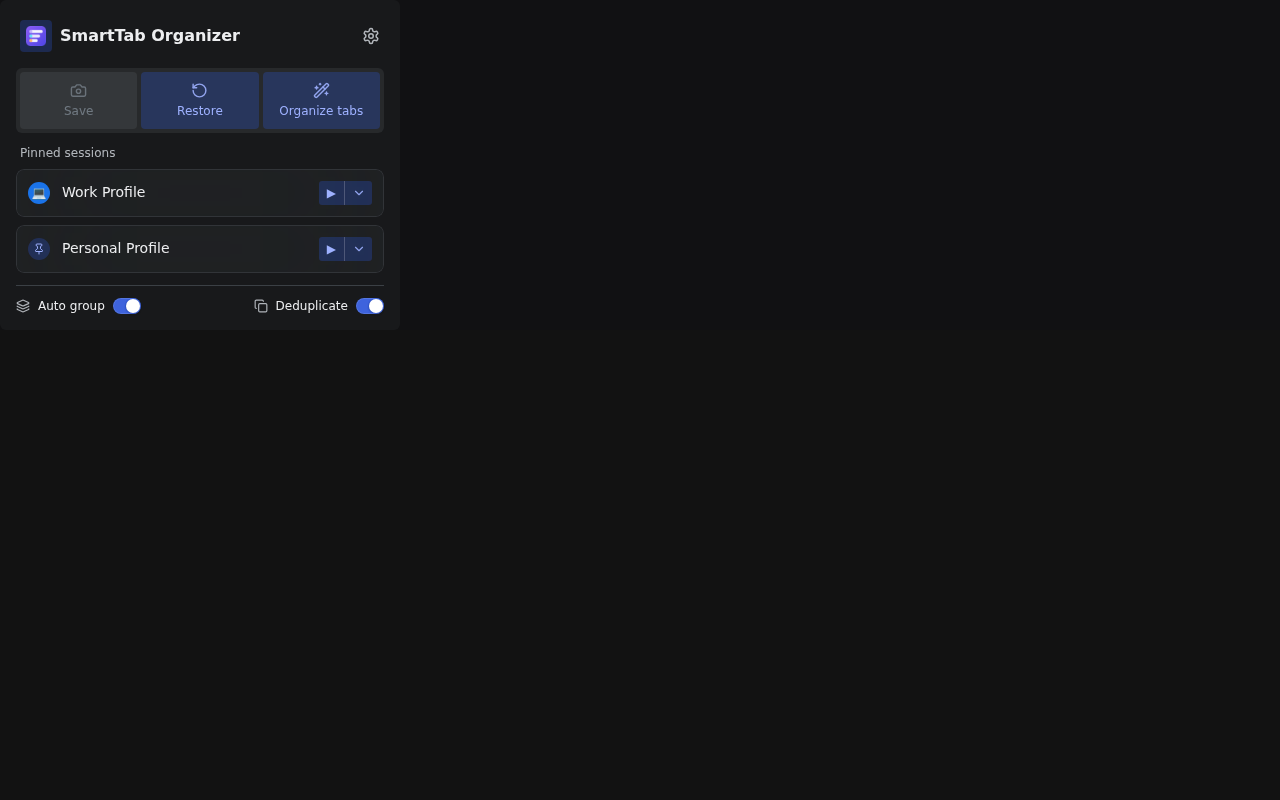
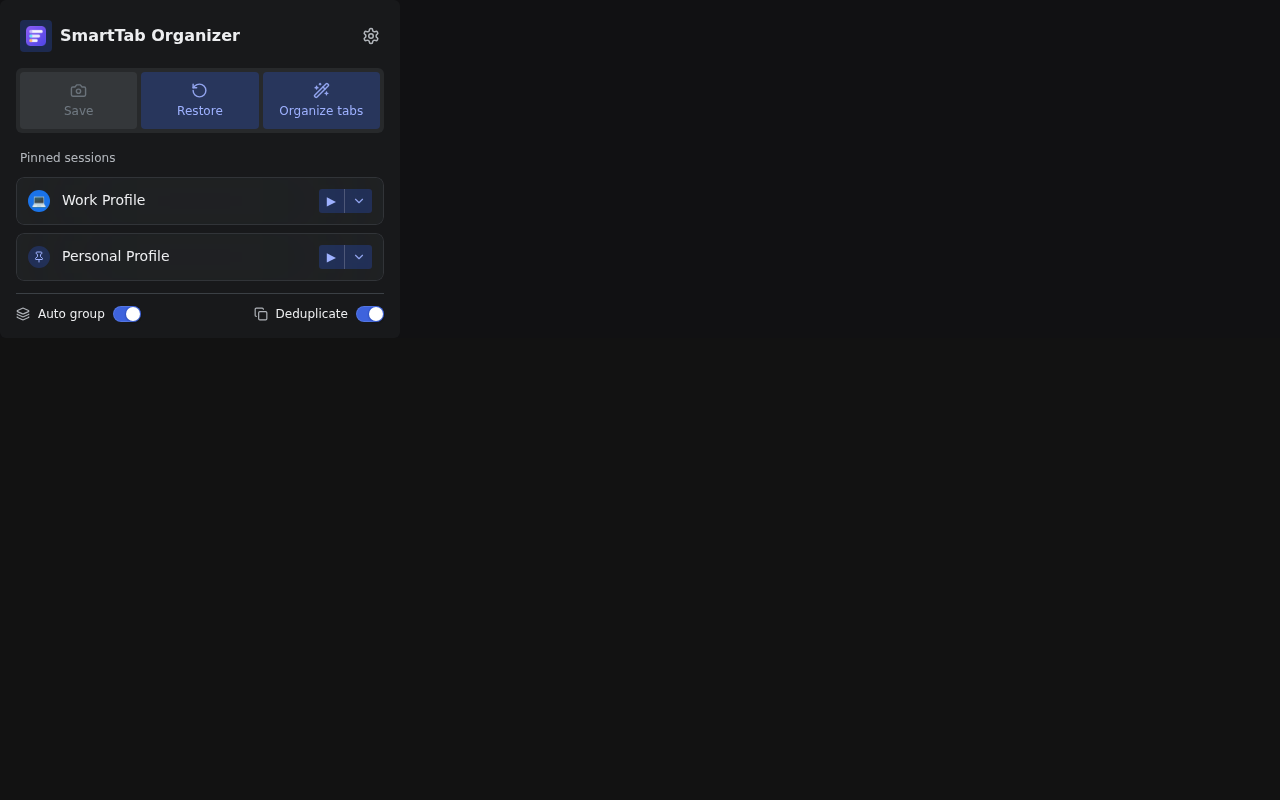
feat(popup): collapsible empty hint for pinned sessions
When the user has at least one saved session but none pinned, the popup
now shows a small collapsible hint that points to the Sessions page.
Collapsed/expanded state is persisted in local storage so the popup
respects the user's choice across sessions.

https://claude.ai/code/session_01VJTvin9FSuX135vUoC8rVM

Changed region(s): [[0.0, 0.1875, 0.3125, 0.4062]]

diff --git a/src/components/UI/PopupProfilesList/PopupProfilesList.tsx b/src/components/UI/PopupProfilesList/PopupProfilesList.tsx
@@ -1,12 +1,15 @@
 import React, { useEffect, useState } from 'react';
-import { Box, Card, Flex, Text } from '@radix-ui/themes';
-import { Pin } from 'lucide-react';
+import { Box, Button, Card, Flex, Text } from '@radix-ui/themes';
+import * as Collapsible from '@radix-ui/react-collapsible';
+import { browser } from 'wxt/browser';
+import { ChevronDown, ExternalLink, Pin } from 'lucide-react';
 import { SplitButton } from '@/components/UI/SplitButton/SplitButton';
 import { getMessage } from '@/utils/i18n';
 import { loadSessions } from '@/utils/sessionStorage';
 import { restoreSessionTabs } from '@/utils/tabRestore';
 import { getRuleCategory } from '@/schemas/enums';
 import { chromeGroupColors } from '@/utils/tabTreeUtils';
+import { popupPinnedEmptyCollapsedItem } from '@/utils/storageItems';
 import type { Session } from '@/types/session';
 
 function getCategoryIcon(categoryId: string | null | undefined): React.ReactNode {
@@ -51,27 +54,116 @@ function getCategoryIcon(categoryId: string | null | undefined): React.ReactNode
   );
 }
 
+async function openSessionsPage() {
+  const url = browser.runtime.getURL('/options.html') + '#sessions';
+  const tabs = await browser.tabs.query({ url: browser.runtime.getURL('/options.html') });
+  if (tabs.length > 0 && tabs[0].id != null) {
+    await browser.tabs.update(tabs[0].id, { active: true, url });
+    if (tabs[0].windowId != null) {
+      await browser.windows.update(tabs[0].windowId, { focused: true });
+    }
+  } else {
+    await browser.tabs.create({ url });
+  }
+  window.close();
+}
+
 export function PopupProfilesList() {
   const [pinnedSessions, setPinnedSessions] = useState<Session[]>([]);
+  const [hasAnySession, setHasAnySession] = useState(false);
+  const [loaded, setLoaded] = useState(false);
+  const [emptyCollapsed, setEmptyCollapsed] = useState(false);
 
   useEffect(() => {
     loadSessions().then((all) => {
-      const pinned = all.filter((s) => s.isPinned);
-      setPinnedSessions(pinned);
+      setPinnedSessions(all.filter((s) => s.isPinned));
+      setHasAnySession(all.length > 0);
+      setLoaded(true);
     });
+    popupPinnedEmptyCollapsedItem.getValue().then(setEmptyCollapsed);
   }, []);
-
-  if (pinnedSessions.length === 0) return null;
 
   function handleRestore(session: Session, target: 'current' | 'new') {
     restoreSessionTabs(session, target).catch(() => {});
   }
 
+  function handleToggleEmptyCollapsed(nextOpen: boolean) {
+    const nextCollapsed = !nextOpen;
+    setEmptyCollapsed(nextCollapsed);
+    popupPinnedEmptyCollapsedItem.setValue(nextCollapsed).catch(() => {});
+  }
+
+  if (!loaded) return null;
+
+  const hasPinned = pinnedSessions.length > 0;
+  const showEmptyHint = !hasPinned && hasAnySession;
+
+  if (!hasPinned && !showEmptyHint) return null;
+
+  const sectionLabel = (
+    <Text size="1" weight="medium" color="gray">
+      {getMessage('popupPinnedSessionsLabel')}
+    </Text>
+  );
+
+  if (showEmptyHint) {
+    const isOpen = !emptyCollapsed;
+    return (
+      <Collapsible.Root open={isOpen} onOpenChange={handleToggleEmptyCollapsed}>
+        <Flex direction="column" gap="2">
+          <Collapsible.Trigger asChild>
+            <button
+              type="button"
+              data-testid="popup-pinned-empty-toggle"
+              aria-label={getMessage('popupPinnedEmptyToggleAria')}
+              style={{
+                all: 'unset',
+                display: 'flex',
+                alignItems: 'center',
+                gap: 'var(--space-2)',
+                cursor: 'pointer',
+                userSelect: 'none',
+                borderRadius: 'var(--radius-2)',
+                paddingLeft: 4,
+              }}
+            >
+              <ChevronDown
+                size={14}
+                aria-hidden="true"
+                style={{
+                  color: 'var(--gray-9)',
+                  transition: 'transform 0.2s ease',
+                  transform: isOpen ? 'rotate(0deg)' : 'rotate(-90deg)',
+                }}
+              />
+              {sectionLabel}
+            </button>
+          </Collapsible.Trigger>
+          <Collapsible.Content>
+            <Card size="1" data-testid="popup-pinned-empty">
+              <Flex direction="column" gap="2" align="start">
+                <Text size="2" color="gray">
+                  {getMessage('popupPinnedEmptyHint')}
+                </Text>
+                <Button
+                  variant="soft"
+                  size="1"
+                  onClick={() => void openSessionsPage()}
+                >
+                  <ExternalLink size={12} aria-hidden="true" />
+                  {getMessage('popupGoToSessions')}
+                </Button>
+              </Flex>
+            </Card>
+          </Collapsible.Content>
+        </Flex>
+      </Collapsible.Root>
+    );
+  }
+
   return (
     <Flex direction="column" gap="2">
-      <Text size="1" weight="medium" color="gray" style={{ paddingLeft: 4 }}>
-        {getMessage('popupPinnedSessionsLabel')}
-      </Text>
+      <Box style={{ paddingLeft: 4 }}>{sectionLabel}</Box>
 
       <Flex data-testid="popup-profiles-list" direction="column" gap="2">
         {pinnedSessions.map((session) => (

diff --git a/tests/components/PopupProfilesList.test.tsx b/tests/components/PopupProfilesList.test.tsx
@@ -10,9 +10,22 @@ vi.mock('../../src/utils/i18n', () => ({
       popupPinnedSessionsLabel: 'Pinned sessions',
       sessionRestoreCurrentWindow: 'Restore in current window',
       sessionRestoreNewWindow: 'Restore in new window',
+      popupPinnedEmptyHint: 'Pin a session for one-click access from here.',
+      popupGoToSessions: 'Manage sessions',
+      popupPinnedEmptyToggleAria: 'Toggle pinned sessions hint',
     };
     return messages[key] || key;
   }),
+}));
+
+// Mock popupPinnedEmptyCollapsedItem to avoid hitting real storage in tests
+const mockGetValue = vi.fn(async () => false);
+const mockSetValue = vi.fn(async () => {});
+vi.mock('../../src/utils/storageItems', () => ({
+  popupPinnedEmptyCollapsedItem: {
+    getValue: () => mockGetValue(),
+    setValue: (value: boolean) => mockSetValue(value),
+  },
 }));
 
 // Mock sessionStorage
@@ -191,6 +204,66 @@ describe('PopupProfilesList', () => {
     expect(screen.getByText('Third (oldest)')).toBeInTheDocument();
     expect(screen.getByText('First (newest)')).toBeInTheDocument();
     expect(screen.getByText('Second (middle)')).toBeInTheDocument();
+  });
+
+  it('should show the collapsible empty hint when sessions exist but none are pinned', async () => {
+    const sessions: Session[] = [
+      {
+        id: 'unpinned-1',
+        isPinned: false,
+        updatedAt: '2026-04-10T00:00:00Z',
+        name: 'Not pinned',
+        createdAt: '2026-04-10T00:00:00Z',
+        ungroupedTabs: [],
+        groups: [],
+      },
+    ];
+
+    mockLoadSessions.mockResolvedValue(sessions);
+
+    render(
+      <TestWrapper>
+        <PopupProfilesList />
+      </TestWrapper>
+    );
+
+    await waitFor(() => {
+      expect(screen.getByText('Pin a session for one-click access from here.')).toBeInTheDocument();
+    });
+
+    expect(screen.getByText('Manage sessions')).toBeInTheDocument();
+    expect(screen.getByTestId('popup-pinned-empty-toggle')).toBeInTheDocument();
+  });
+
+  it('should persist the collapsed state when the user toggles the empty hint', async () => {
+    const { fireEvent } = await import('@testing-library/react');
+    const sessions: Session[] = [
+      {
+        id: 'unpinned-1',
+        isPinned: false,
+        updatedAt: '2026-04-10T00:00:00Z',
+        name: 'Not pinned',
+        createdAt: '2026-04-10T00:00:00Z',
+        ungroupedTabs: [],
+        groups: [],
+      },
+    ];
+
+    mockLoadSessions.mockResolvedValue(sessions);
+    mockSetValue.mockClear();
+
+    render(
+      <TestWrapper>
+        <PopupProfilesList />
+      </TestWrapper>
+    );
+
+    const toggle = await screen.findByTestId('popup-pinned-empty-toggle');
+    fireEvent.click(toggle);
+
+    await waitFor(() => {
+      expect(mockSetValue).toHaveBeenCalledWith(true);
+    });
   });
 
   it('should display pinned sessions label when pinned sessions exist', async () => {

diff --git a/e2e-screenshots/pages/popup.screenshots.ts b/e2e-screenshots/pages/popup.screenshots.ts
@@ -62,4 +62,28 @@ test.describe('Popup screenshots', () => {
       },
     );
   });
+
+  /**
+   * popup-empty-pinned
+   * Popup with at least one saved session but none pinned: shows the
+   * collapsible "Pinned sessions" empty hint.
+   */
+  test('popup-empty-pinned', async ({ extensionContext, extensionId }, testInfo) => {
+    const locale = testInfo.project.name;
+    await seedRules(extensionContext);
+    await seedSessions(extensionContext, [SESSION_MORNING_DEV]);
+
+    await captureAllElement(
+      extensionContext,
+      extensionId,
+      locale,
+      'popup',
+      'popup-empty-pinned',
+      '#popup-app',
+      async (page) => {
+        await page.setViewportSize({ width: 402, height: 800 });
+        await page.waitForTimeout(300);
+      },
+    );
+  });
 });

diff --git a/src/utils/storageItems.ts b/src/utils/storageItems.ts
@@ -55,6 +55,11 @@ export const sessionsHelpPrefsItem = storage.defineItem<SessionsHelpPrefs>(
   { defaultValue: { sessionsIntroHidden: false } },
 );
 
+export const popupPinnedEmptyCollapsedItem = storage.defineItem<boolean>(
+  'local:popupPinnedEmptyCollapsed',
+  { defaultValue: false },
+);
+
 // Map des items sync par champ (pour watchSyncSettingsField)
 export const syncSettingsItemMap = {
   globalGroupingEnabled: globalGroupingEnabledItem,
